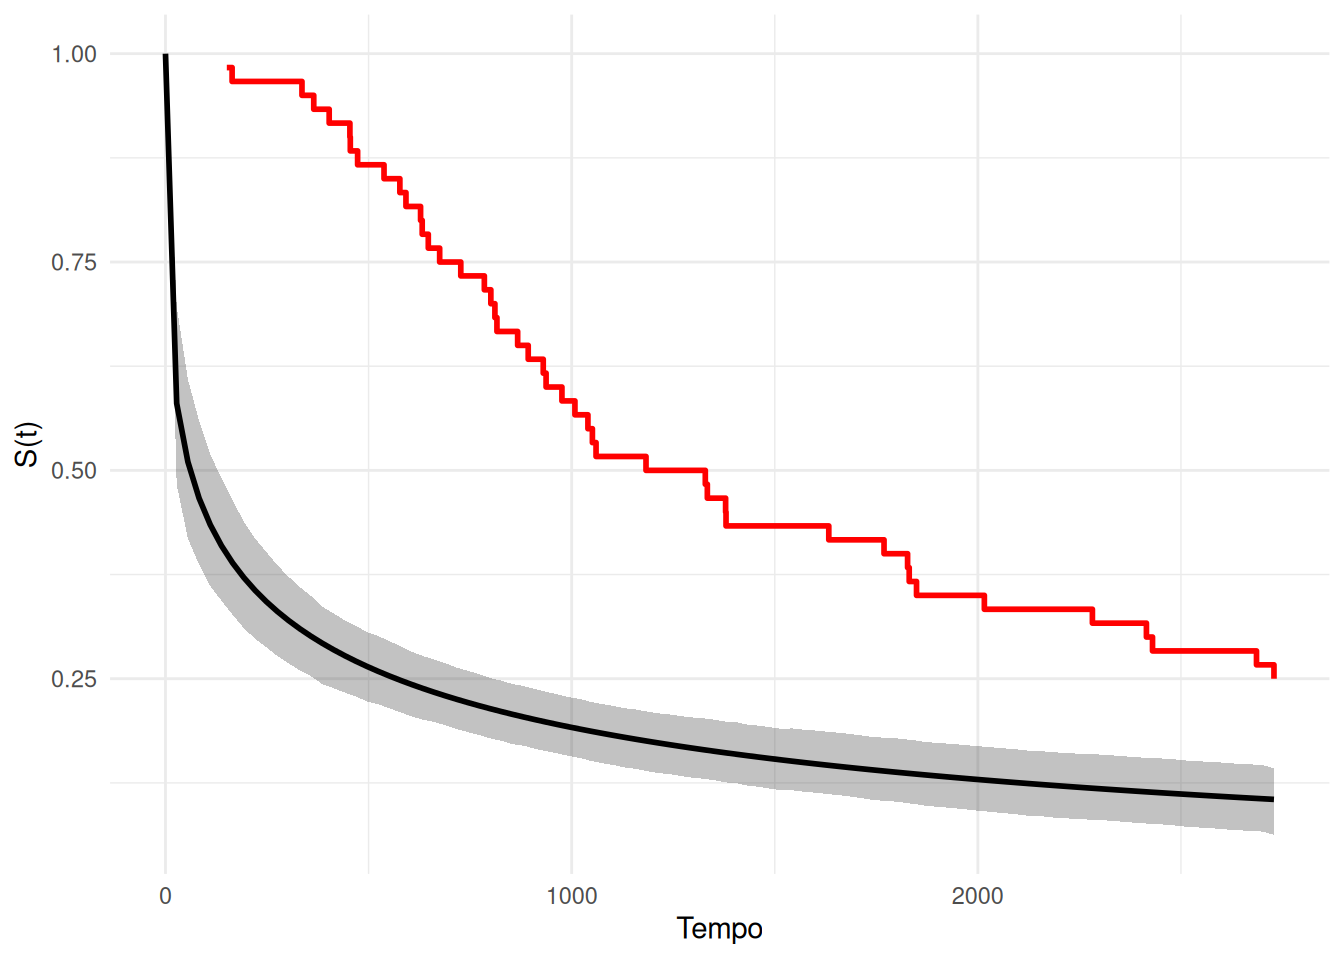
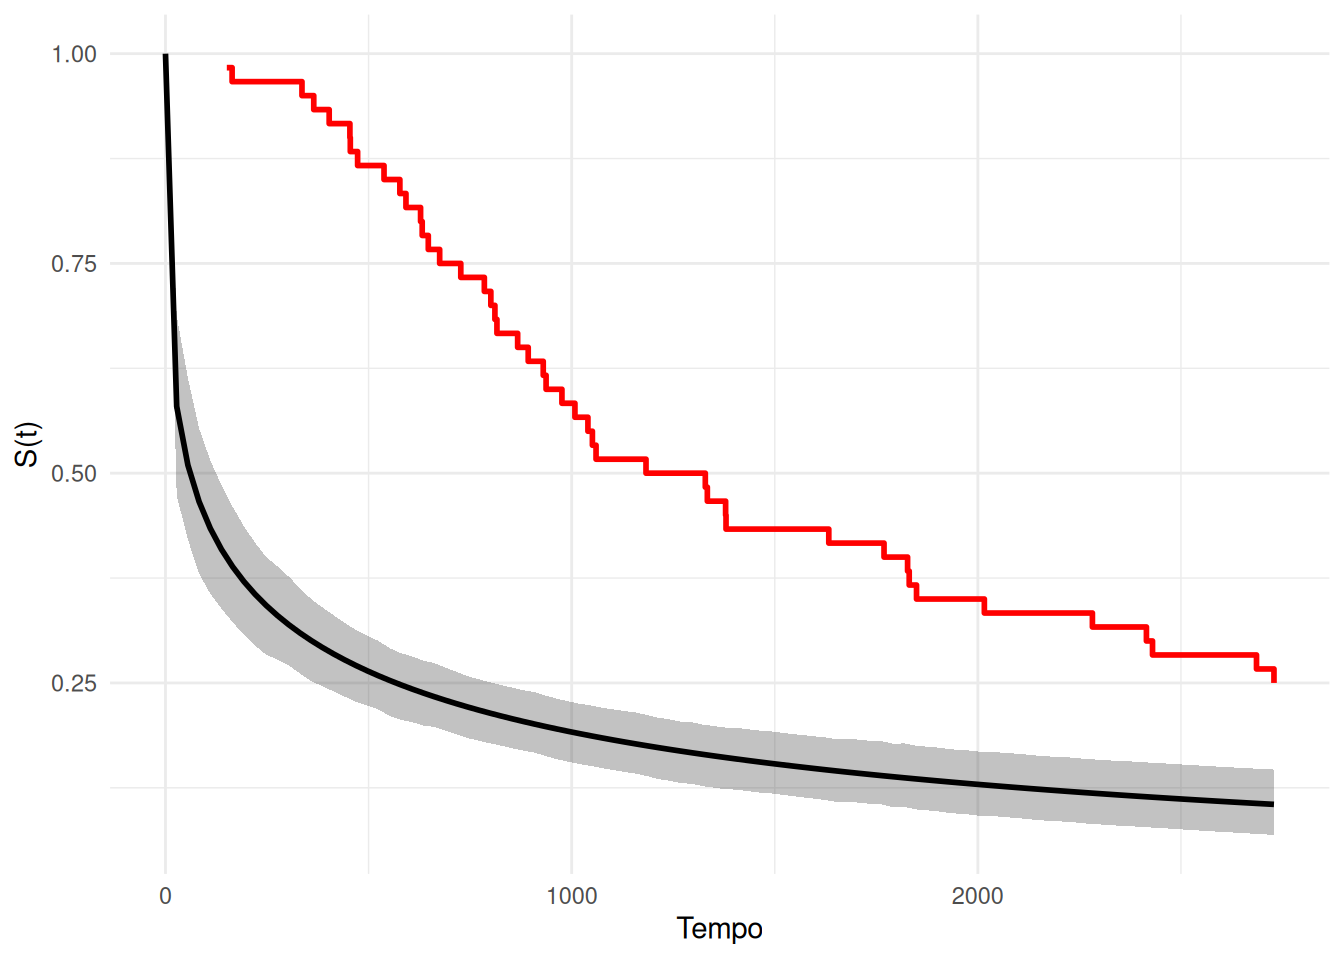
Built site for gh-pages

diff --git a/models.html b/models.html
@@ -769,25 +769,25 @@ $lp__
 <span id="cb21-20"><a href="#cb21-20" aria-hidden="true" tabindex="-1"></a><span class="fu">lapply</span>(resumo, head)</span></code></pre></div><button title="Copiar para a área de transferência" class="code-copy-button"><i class="bi"></i></button></div>
 <div class="cell-output cell-output-stdout">
 <pre><code>$alpha
-         media   mediana   hpd_min   hpd_max
-[1,] 0.3116998 0.3079673 0.2198055 0.4178438
+         media  mediana  hpd_min   hpd_max
+[1,] 0.3112458 0.307223 0.210955 0.4102451
 
 $sigma
-       media mediana  hpd_min hpd_max
-[1,] 199.681 194.962 99.56241 311.716
+        media mediana  hpd_min  hpd_max
+[1,] 199.1069 193.282 95.36486 312.4123
 
 $S
          media   mediana   hpd_min   hpd_max
 [1,] 1.0000000 1.0000000 1.0000000 1.0000000
-[2,] 0.5803141 0.5780728 0.4828406 0.6967235
-[3,] 0.5102409 0.5071832 0.4181244 0.6092008
-[4,] 0.4665817 0.4633880 0.3869512 0.5594391
-[5,] 0.4346847 0.4317705 0.3610632 0.5191871
-[6,] 0.4095540 0.4067515 0.3435544 0.4904559
+[2,] 0.5796361 0.5759192 0.4733481 0.6875917
+[3,] 0.5096627 0.5058828 0.4208912 0.6132597
+[4,] 0.4660708 0.4625976 0.3802567 0.5533426
+[5,] 0.4342247 0.4310742 0.3562785 0.5152212
+[6,] 0.4091348 0.4060198 0.3385033 0.4857461
 
 $lp__
-         media   mediana   hpd_min   hpd_max
-[1,] -465.8149 -465.5333 -467.7637 -464.8248</code></pre>
+         media   mediana  hpd_min   hpd_max
+[1,] -465.8518 -465.5669 -467.861 -464.8248</code></pre>
 </div>
 </div>
 <div class="cell">
@@ -877,7 +877,7 @@ $lp__
 <span id="cb24-29"><a href="#cb24-29" aria-hidden="true" tabindex="-1"></a>df_wo_na <span class="ot">=</span> </span>
 <span id="cb24-30"><a href="#cb24-30" aria-hidden="true" tabindex="-1"></a>  df <span class="sc">|&gt;</span></span>
 <span id="cb24-31"><a href="#cb24-31" aria-hidden="true" tabindex="-1"></a>  <span class="fu">filter</span>(<span class="sc">!</span>estacao <span class="sc">%in%</span> st_w_na) <span class="sc">|&gt;</span></span>
-<span id="cb24-32"><a href="#cb24-32" aria-hidden="true" tabindex="-1"></a>  <span class="fu">left_join</span>(<span class="fu">select</span>(stations,<span class="st">"station.id"</span>, <span class="st">"town.id"</span>), <span class="at">by =</span> <span class="fu">c</span>(<span class="st">"estacao"</span> <span class="ot">=</span> <span class="st">"station.id"</span>)) <span class="sc">|&gt;</span></span>
+<span id="cb24-32"><a href="#cb24-32" aria-hidden="true" tabindex="-1"></a>  <span class="fu">left_join</span>(<span class="fu">select</span>(stations,<span class="st">"station.id"</span>, <span class="st">"town.id"</span>, <span class="st">"lat"</span>, <span class="st">"lon"</span>), <span class="at">by =</span> <span class="fu">c</span>(<span class="st">"estacao"</span> <span class="ot">=</span> <span class="st">"station.id"</span>)) <span class="sc">|&gt;</span></span>
 <span id="cb24-33"><a href="#cb24-33" aria-hidden="true" tabindex="-1"></a>  <span class="fu">left_join</span>(ibge, <span class="at">by =</span> <span class="st">"town.id"</span>) <span class="sc">|&gt;</span></span>
 <span id="cb24-34"><a href="#cb24-34" aria-hidden="true" tabindex="-1"></a>  <span class="fu">mutate</span>(</span>
 <span id="cb24-35"><a href="#cb24-35" aria-hidden="true" tabindex="-1"></a>    <span class="at">regiao =</span> <span class="fu">case_when</span>(</span>
@@ -891,7 +891,7 @@ $lp__
 <span id="cb24-43"><a href="#cb24-43" aria-hidden="true" tabindex="-1"></a>  <span class="fu">relocate</span>(regiao) <span class="sc">|&gt;</span></span>
 <span id="cb24-44"><a href="#cb24-44" aria-hidden="true" tabindex="-1"></a>  <span class="fu">arrange</span>(regiao, estacao)</span>
 <span id="cb24-45"><a href="#cb24-45" aria-hidden="true" tabindex="-1"></a></span>
-<span id="cb24-46"><a href="#cb24-46" aria-hidden="true" tabindex="-1"></a><span class="fu">write.csv</span>(df_wo_na, <span class="st">"stuff/meteo.csv"</span>, <span class="at">row.names =</span> F)</span></code></pre></div><button title="Copiar para a área de transferência" class="code-copy-button"><i class="bi"></i></button></div>
+<span id="cb24-46"><a href="#cb24-46" aria-hidden="true" tabindex="-1"></a><span class="fu">write.csv</span>(df_wo_na, <span class="st">"stuff/temperatura.csv"</span>, <span class="at">row.names =</span> F)</span></code></pre></div><button title="Copiar para a área de transferência" class="code-copy-button"><i class="bi"></i></button></div>
 </details>
 </div>
 <div class="cell">
@@ -900,107 +900,128 @@ $lp__
 <div class="cell">
 <div class="cell-output-display">
 <table class="caption-top table table-sm table-striped small">
+<colgroup>
+<col style="width: 14%">
+<col style="width: 11%">
+<col style="width: 10%">
+<col style="width: 10%">
+<col style="width: 13%">
+<col style="width: 13%">
+<col style="width: 13%">
+<col style="width: 13%">
+</colgroup>
 <thead>
 <tr class="header">
+<th style="text-align: left;">regiao</th>
 <th style="text-align: left;">estacao</th>
+<th style="text-align: right;">lat</th>
+<th style="text-align: right;">lon</th>
 <th style="text-align: right;">X2025.01</th>
 <th style="text-align: right;">X2025.02</th>
 <th style="text-align: right;">X2025.03</th>
 <th style="text-align: right;">X2025.04</th>
-<th style="text-align: right;">X2025.05</th>
-<th style="text-align: right;">X2025.06</th>
 </tr>
 </thead>
 <tbody>
 <tr class="odd">
-<td style="text-align: left;">A502</td>
-<td style="text-align: right;">20.84</td>
-<td style="text-align: right;">21.89</td>
-<td style="text-align: right;">20.42</td>
-<td style="text-align: right;">18.66</td>
-<td style="text-align: right;">16.57</td>
-<td style="text-align: right;">16.00</td>
+<td style="text-align: left;">NORTE</td>
+<td style="text-align: left;">A549</td>
+<td style="text-align: right;">-15.75</td>
+<td style="text-align: right;">-41.46</td>
+<td style="text-align: right;">23.26</td>
+<td style="text-align: right;">23.09</td>
+<td style="text-align: right;">23.19</td>
+<td style="text-align: right;">22.47</td>
 </tr>
 <tr class="even">
-<td style="text-align: left;">A506</td>
-<td style="text-align: right;">24.82</td>
-<td style="text-align: right;">25.43</td>
-<td style="text-align: right;">26.03</td>
-<td style="text-align: right;">25.05</td>
-<td style="text-align: right;">22.27</td>
-<td style="text-align: right;">21.28</td>
+<td style="text-align: left;">NORTE</td>
+<td style="text-align: left;">A552</td>
+<td style="text-align: right;">-16.16</td>
+<td style="text-align: right;">-42.31</td>
+<td style="text-align: right;">25.27</td>
+<td style="text-align: right;">26.19</td>
+<td style="text-align: right;">26.69</td>
+<td style="text-align: right;">25.77</td>
 </tr>
 <tr class="odd">
-<td style="text-align: left;">A507</td>
-<td style="text-align: right;">24.24</td>
-<td style="text-align: right;">24.99</td>
-<td style="text-align: right;">25.52</td>
-<td style="text-align: right;">23.88</td>
-<td style="text-align: right;">21.69</td>
-<td style="text-align: right;">20.99</td>
-</tr>
-<tr class="even">
-<td style="text-align: left;">A508</td>
-<td style="text-align: right;">28.10</td>
-<td style="text-align: right;">28.23</td>
-<td style="text-align: right;">27.83</td>
+<td style="text-align: left;">NORTE</td>
+<td style="text-align: left;">A543</td>
+<td style="text-align: right;">-14.91</td>
+<td style="text-align: right;">-42.81</td>
+<td style="text-align: right;">26.49</td>
 <td style="text-align: right;">27.88</td>
-<td style="text-align: right;">24.98</td>
-<td style="text-align: right;">23.56</td>
-</tr>
-<tr class="odd">
-<td style="text-align: left;">A509</td>
-<td style="text-align: right;">18.16</td>
-<td style="text-align: right;">18.79</td>
-<td style="text-align: right;">18.15</td>
-<td style="text-align: right;">15.96</td>
-<td style="text-align: right;">13.56</td>
-<td style="text-align: right;">11.89</td>
+<td style="text-align: right;">28.50</td>
+<td style="text-align: right;">26.22</td>
 </tr>
 <tr class="even">
-<td style="text-align: left;">A510</td>
-<td style="text-align: right;">23.15</td>
-<td style="text-align: right;">23.23</td>
-<td style="text-align: right;">22.87</td>
-<td style="text-align: right;">21.07</td>
-<td style="text-align: right;">18.57</td>
-<td style="text-align: right;">17.21</td>
-</tr>
-<tr class="odd">
-<td style="text-align: left;">A511</td>
-<td style="text-align: right;">24.02</td>
-<td style="text-align: right;">25.49</td>
-<td style="text-align: right;">24.77</td>
-<td style="text-align: right;">22.91</td>
-<td style="text-align: right;">20.65</td>
-<td style="text-align: right;">19.75</td>
-</tr>
-<tr class="even">
-<td style="text-align: left;">A512</td>
-<td style="text-align: right;">25.36</td>
-<td style="text-align: right;">25.34</td>
-<td style="text-align: right;">25.98</td>
-<td style="text-align: right;">24.19</td>
-<td style="text-align: right;">21.51</td>
-<td style="text-align: right;">20.83</td>
-</tr>
-<tr class="odd">
+<td style="text-align: left;">SUL</td>
 <td style="text-align: left;">A513</td>
+<td style="text-align: right;">-20.56</td>
+<td style="text-align: right;">-43.76</td>
 <td style="text-align: right;">21.84</td>
 <td style="text-align: right;">22.77</td>
 <td style="text-align: right;">21.47</td>
 <td style="text-align: right;">19.79</td>
-<td style="text-align: right;">17.68</td>
-<td style="text-align: right;">17.29</td>
+</tr>
+<tr class="odd">
+<td style="text-align: left;">SUL</td>
+<td style="text-align: left;">A516</td>
+<td style="text-align: right;">-20.75</td>
+<td style="text-align: right;">-46.63</td>
+<td style="text-align: right;">23.34</td>
+<td style="text-align: right;">24.11</td>
+<td style="text-align: right;">24.07</td>
+<td style="text-align: right;">21.85</td>
 </tr>
 <tr class="even">
-<td style="text-align: left;">A514</td>
-<td style="text-align: right;">22.30</td>
-<td style="text-align: right;">23.27</td>
-<td style="text-align: right;">22.33</td>
-<td style="text-align: right;">20.43</td>
-<td style="text-align: right;">17.56</td>
-<td style="text-align: right;">16.53</td>
+<td style="text-align: left;">SUL</td>
+<td style="text-align: left;">A510</td>
+<td style="text-align: right;">-20.76</td>
+<td style="text-align: right;">-42.86</td>
+<td style="text-align: right;">23.15</td>
+<td style="text-align: right;">23.23</td>
+<td style="text-align: right;">22.87</td>
+<td style="text-align: right;">21.07</td>
+</tr>
+<tr class="odd">
+<td style="text-align: left;">SUL</td>
+<td style="text-align: left;">A517</td>
+<td style="text-align: right;">-21.10</td>
+<td style="text-align: right;">-42.38</td>
+<td style="text-align: right;">25.62</td>
+<td style="text-align: right;">27.15</td>
+<td style="text-align: right;">25.55</td>
+<td style="text-align: right;">23.60</td>
+</tr>
+<tr class="even">
+<td style="text-align: left;">SUL</td>
+<td style="text-align: left;">A524</td>
+<td style="text-align: right;">-20.45</td>
+<td style="text-align: right;">-45.45</td>
+<td style="text-align: right;">23.35</td>
+<td style="text-align: right;">24.55</td>
+<td style="text-align: right;">24.01</td>
+<td style="text-align: right;">21.92</td>
+</tr>
+<tr class="odd">
+<td style="text-align: left;">TRIANGULO</td>
+<td style="text-align: left;">A525</td>
+<td style="text-align: right;">-19.88</td>
+<td style="text-align: right;">-47.43</td>
+<td style="text-align: right;">23.55</td>
+<td style="text-align: right;">24.42</td>
+<td style="text-align: right;">24.42</td>
+<td style="text-align: right;">22.46</td>
+</tr>
+<tr class="even">
+<td style="text-align: left;">TRIANGULO</td>
+<td style="text-align: left;">A507</td>
+<td style="text-align: right;">-18.92</td>
+<td style="text-align: right;">-48.26</td>
+<td style="text-align: right;">24.24</td>
+<td style="text-align: right;">24.99</td>
+<td style="text-align: right;">25.52</td>
+<td style="text-align: right;">23.88</td>
 </tr>
 </tbody>
 </table>
@@ -1012,6 +1033,47 @@ $lp__
 <figcaption>Regiões de MG</figcaption>
 </figure>
 </div>
+<div class="code-copy-outer-scaffold"><div class="sourceCode" id="cb26"><pre class="sourceCode stan code-with-copy"><code class="sourceCode stan"><span id="cb26-1"><a href="#cb26-1" aria-hidden="true" tabindex="-1"></a><span class="kw">data</span> {</span>
+<span id="cb26-2"><a href="#cb26-2" aria-hidden="true" tabindex="-1"></a>  <span class="dt">int</span>&lt;<span class="kw">lower</span>=<span class="dv">1</span>&gt; n_row;</span>
+<span id="cb26-3"><a href="#cb26-3" aria-hidden="true" tabindex="-1"></a>  <span class="dt">int</span>&lt;<span class="kw">lower</span>=<span class="dv">1</span>&gt; n_col;</span>
+<span id="cb26-4"><a href="#cb26-4" aria-hidden="true" tabindex="-1"></a>  <span class="dt">int</span>&lt;<span class="kw">lower</span>=<span class="dv">1</span>&gt; n_fac;</span>
+<span id="cb26-5"><a href="#cb26-5" aria-hidden="true" tabindex="-1"></a>  <span class="dt">matrix</span>[n_row, n_col] X;</span>
+<span id="cb26-6"><a href="#cb26-6" aria-hidden="true" tabindex="-1"></a>  <span class="dt">int</span>&lt;<span class="kw">lower</span>=<span class="dv">1</span>&gt; n_alpha_free;</span>
+<span id="cb26-7"><a href="#cb26-7" aria-hidden="true" tabindex="-1"></a>  <span class="dt">real</span>&lt;<span class="kw">lower</span>=<span class="dv">0</span>&gt; sigma2_shape;</span>
+<span id="cb26-8"><a href="#cb26-8" aria-hidden="true" tabindex="-1"></a>  <span class="dt">real</span>&lt;<span class="kw">lower</span>=<span class="dv">0</span>&gt; sigma2_rate;</span>
+<span id="cb26-9"><a href="#cb26-9" aria-hidden="true" tabindex="-1"></a>  <span class="dt">int</span>&lt;<span class="kw">lower</span>=<span class="dv">0</span>&gt; alpha_status[n_row, n_fac];</span>
+<span id="cb26-10"><a href="#cb26-10" aria-hidden="true" tabindex="-1"></a>}</span>
+<span id="cb26-11"><a href="#cb26-11" aria-hidden="true" tabindex="-1"></a><span class="kw">parameters</span> {</span>
+<span id="cb26-12"><a href="#cb26-12" aria-hidden="true" tabindex="-1"></a>  <span class="dt">vector</span>[n_alpha_free] alpha_;</span>
+<span id="cb26-13"><a href="#cb26-13" aria-hidden="true" tabindex="-1"></a>  <span class="dt">matrix</span>[<span class="dv">2</span>, n_col] lambda;</span>
+<span id="cb26-14"><a href="#cb26-14" aria-hidden="true" tabindex="-1"></a>  <span class="dt">matrix</span>&lt;<span class="kw">lower</span>=<span class="dv">0</span>&gt;[n_row,<span class="dv">1</span>] sigma2;</span>
+<span id="cb26-15"><a href="#cb26-15" aria-hidden="true" tabindex="-1"></a>}</span>
+<span id="cb26-16"><a href="#cb26-16" aria-hidden="true" tabindex="-1"></a><span class="kw">transformed parameters</span> {</span>
+<span id="cb26-17"><a href="#cb26-17" aria-hidden="true" tabindex="-1"></a>  <span class="dt">matrix</span>[n_row, n_fac] alpha;</span>
+<span id="cb26-18"><a href="#cb26-18" aria-hidden="true" tabindex="-1"></a>  <span class="cf">for</span> (i <span class="cf">in</span> <span class="dv">1</span>:n_row) { <span class="cf">for</span> (k <span class="cf">in</span> <span class="dv">1</span>:n_fac) {</span>
+<span id="cb26-19"><a href="#cb26-19" aria-hidden="true" tabindex="-1"></a>    <span class="cf">if</span> (alpha_status[i,k] == <span class="dv">0</span>) {</span>
+<span id="cb26-20"><a href="#cb26-20" aria-hidden="true" tabindex="-1"></a>      alpha[i,k] = <span class="dv">0</span>;</span>
+<span id="cb26-21"><a href="#cb26-21" aria-hidden="true" tabindex="-1"></a>    } <span class="cf">else</span> {</span>
+<span id="cb26-22"><a href="#cb26-22" aria-hidden="true" tabindex="-1"></a>      alpha[i,k] = alpha_[alpha_status[i,k]];</span>
+<span id="cb26-23"><a href="#cb26-23" aria-hidden="true" tabindex="-1"></a>    }</span>
+<span id="cb26-24"><a href="#cb26-24" aria-hidden="true" tabindex="-1"></a>  }}</span>
+<span id="cb26-25"><a href="#cb26-25" aria-hidden="true" tabindex="-1"></a>}</span>
+<span id="cb26-26"><a href="#cb26-26" aria-hidden="true" tabindex="-1"></a><span class="kw">model</span> {</span>
+<span id="cb26-27"><a href="#cb26-27" aria-hidden="true" tabindex="-1"></a>  <span class="dt">matrix</span>[n_row, n_col] alpha_lambda;</span>
+<span id="cb26-28"><a href="#cb26-28" aria-hidden="true" tabindex="-1"></a>  alpha_lambda = alpha * lambda;</span>
+<span id="cb26-29"><a href="#cb26-29" aria-hidden="true" tabindex="-1"></a>  <span class="cf">for</span>(i <span class="cf">in</span> <span class="dv">1</span>:n_row){ <span class="cf">for</span> (j <span class="cf">in</span> <span class="dv">1</span>:n_col) {</span>
+<span id="cb26-30"><a href="#cb26-30" aria-hidden="true" tabindex="-1"></a>    X[i,j] ~ normal( alpha_lambda[i,j], sqrt(sigma2[i,<span class="dv">1</span>]) );</span>
+<span id="cb26-31"><a href="#cb26-31" aria-hidden="true" tabindex="-1"></a>  }}</span>
+<span id="cb26-32"><a href="#cb26-32" aria-hidden="true" tabindex="-1"></a>  <span class="cf">for</span>(i <span class="cf">in</span> <span class="dv">1</span>:n_alpha_free) {</span>
+<span id="cb26-33"><a href="#cb26-33" aria-hidden="true" tabindex="-1"></a>    alpha_[i] ~ normal(<span class="dv">0</span>,<span class="dv">10</span>);</span>
+<span id="cb26-34"><a href="#cb26-34" aria-hidden="true" tabindex="-1"></a>  }</span>
+<span id="cb26-35"><a href="#cb26-35" aria-hidden="true" tabindex="-1"></a>  <span class="cf">for</span>(i <span class="cf">in</span> <span class="dv">1</span>:n_row){</span>
+<span id="cb26-36"><a href="#cb26-36" aria-hidden="true" tabindex="-1"></a>    sigma2[i,<span class="dv">1</span>] ~ gamma(sigma2_shape, sigma2_rate);</span>
+<span id="cb26-37"><a href="#cb26-37" aria-hidden="true" tabindex="-1"></a>  }</span>
+<span id="cb26-38"><a href="#cb26-38" aria-hidden="true" tabindex="-1"></a>  <span class="cf">for</span> (k <span class="cf">in</span> <span class="dv">1</span>:n_fac) { <span class="cf">for</span>(j <span class="cf">in</span> <span class="dv">1</span>:n_col){ </span>
+<span id="cb26-39"><a href="#cb26-39" aria-hidden="true" tabindex="-1"></a>    lambda[k,j] ~ normal(<span class="dv">0</span>, <span class="dv">1</span>);</span>
+<span id="cb26-40"><a href="#cb26-40" aria-hidden="true" tabindex="-1"></a>  }}</span>
+<span id="cb26-41"><a href="#cb26-41" aria-hidden="true" tabindex="-1"></a>}</span></code></pre></div><button title="Copiar para a área de transferência" class="code-copy-button"><i class="bi"></i></button></div>
 
 
 <div id="refs" class="references csl-bib-body hanging-indent" data-entry-spacing="0" role="list" style="display: none">

diff --git a/pred.html b/pred.html
@@ -190,7 +190,7 @@ div.csl-indent {
 <section id="predições-no-stan" class="level2" data-number="4.1">
 <h2 data-number="4.1" class="anchored" data-anchor-id="predições-no-stan"><span class="header-section-number">4.1</span> Predições no STAN</h2>
 <blockquote class="blockquote">
-<p>“Rethinking: Generative thinking, Bayesian inference. Bayesian models are generative, meaning they can be used to simulate observations just as well as they can be used to estimate parameters. One benefit of this fact is that a statistical model can be developed by thinking hard about how the data might have arisen.”</p>
+<p>Bayesian models are generative, meaning they can be used to simulate observations just as well as they can be used to estimate parameters. One benefit of this fact is that a statistical model can be developed by thinking hard about how the data might have arisen.”</p>
 <p>— Richard McElreath, <em>Statistical Rethinking: A Bayesian Course with Examples in R and Stan</em> (2020)</p>
 </blockquote>
 <p>Predições como parâmetro vs.&nbsp;generated quantites</p>
